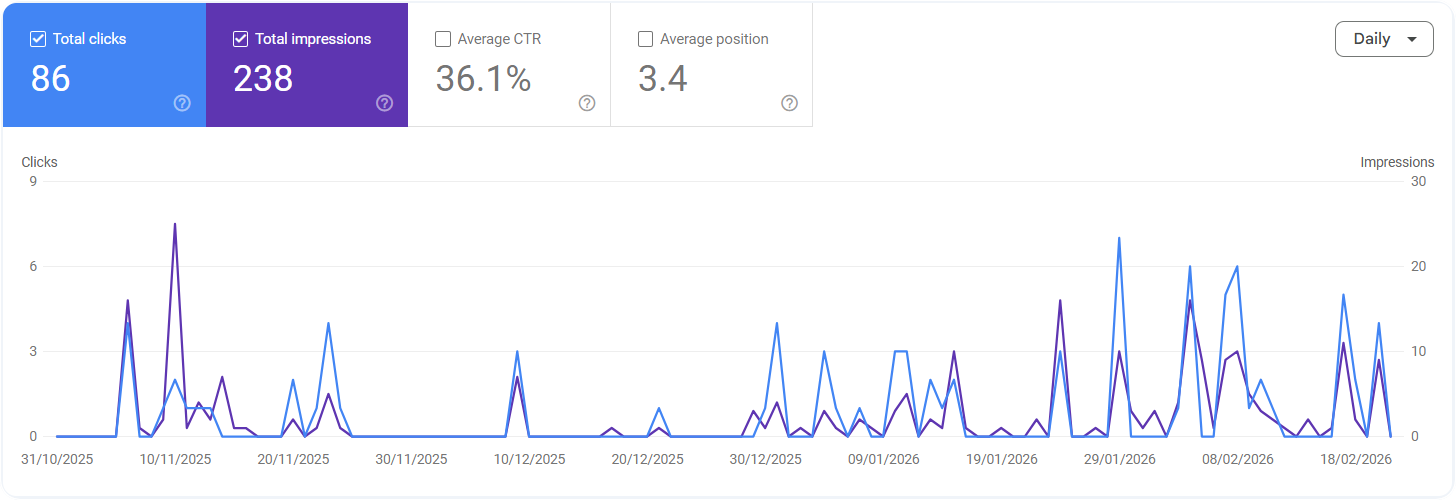
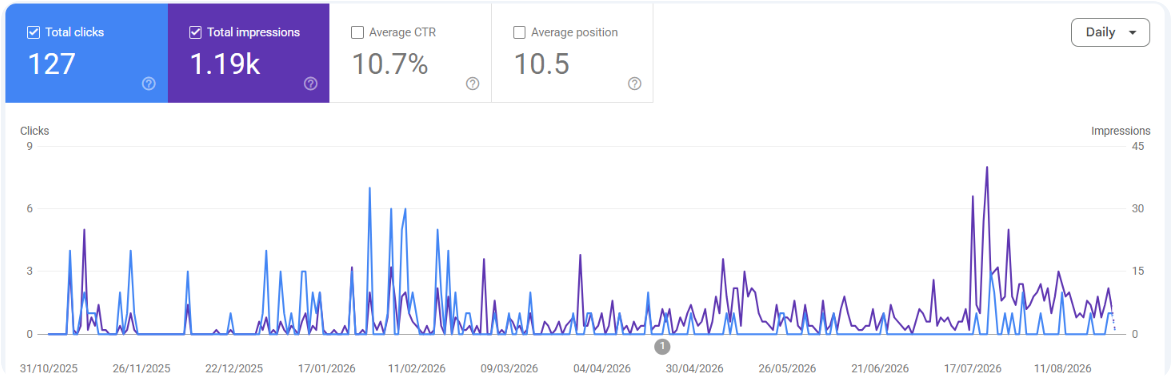
Added Cache for Stats and Ranking System

diff --git a/README.md b/README.md
@@ -84,6 +84,11 @@
         <tr width="100%">
           <td width="100%" colspan="2" align="center">
             <h5>Production-Grade SEO, Indexing & Web Performance Implementation with Verified <br/>Top Google Search Visibility</h5>
+            <img src="./backend/src/lib/seo/seoAISearch.png" width="100%">
+          </td>
+        </tr>
+        <tr width="100%">
+          <td width="100%" colspan="2" align="center">
             <img src="./backend/src/lib/seo/seoSearchUpdated.png" width="100%">
           </td>
         </tr>
@@ -93,11 +98,13 @@
           </td>
         </tr>
         <tr width="100%">
-          <td width="50%">
-            <img src="./backend/src/lib/seo/seoSearchUpdated2.png" width="100%">
+          <td width="100%" colspan="2" align="center">
+            <img src="./backend/src/lib/seo/seoPerformance1.png" width="100%">
           </td>
-          <td width="50%">
-            <img src="./backend/src/lib/seo/seoSearchResult.png" width="100%">
+        </tr>
+        <tr width="100%">
+          <td width="100%" colspan="2" align="center">
+            <img src="./backend/src/lib/seo/googleAnalyticsCountry.png" width="100%">
           </td>
         </tr>
         <tr width="100%">
@@ -134,10 +141,42 @@
         </tr>
         <tr width="100%">
           <td width="50%">
-            <img src="./backend/src/lib/seo/seoResult.png" width="100%">
+            <img src="./backend/src/lib/seo/seoSearchUpdated2.png" width="100%">
           </td>
           <td width="50%">
-            <img src="./backend/src/lib/seo/seoSitemaps2.png" width="100%">
+            <img src="./backend/src/lib/seo/seoSearchUpdated3.png" width="100%">
+          </td>
+        </tr>
+        <tr width="100%">
+          <td width="50%">
+            <img src="./backend/src/lib/seo/seoSearchResult.png" width="100%">
+          </td>
+          <td width="50%">
+            <img src="./backend/src/lib/seo/seoResult.png" width="100%">
+          </td>
+        </tr>
+        <tr width="100%">
+          <td width="50%">
+            <img src="./backend/src/lib/seo/googleAnalytics.png" width="100%">
+          </td>
+          <td width="50%">
+            <img src="./backend/src/lib/seo/googleAnalyticsUsers.png" width="100%">
+          </td>
+        </tr>
+        <tr width="100%">
+          <td width="50%">
+            <img src="./backend/src/lib/seo/googleAnalyticsCountry.png" width="100%">
+          </td>
+          <td width="50%">
+            <img src="./backend/src/lib/seo/googleAnalyticsGraph.png" width="100%">
+          </td>
+        </tr>
+        <tr width="100%">
+          <td width="50%">
+            <img src="./backend/src/lib/seo/bingURLInspection.png" width="100%">
+          </td>
+          <td width="50%">
+            <img src="./backend/src/lib/seo/bingSitemap.png" width="100%">
           </td>
         </tr>
         <tr width="100%">
@@ -148,6 +187,11 @@
         <tr width="100%">
           <td width="100%" colspan="2" align="center">
             <img src="./backend/src/lib/seo/seoSitemaps1.png" width="100%">
+          </td>
+        </tr>
+        <tr width="100%">
+          <td width="100%" colspan="2" align="center">
+            <img src="./backend/src/lib/seo/seoSitemaps2.png" width="100%">
           </td>
         </tr>
         <tr width="100%">
